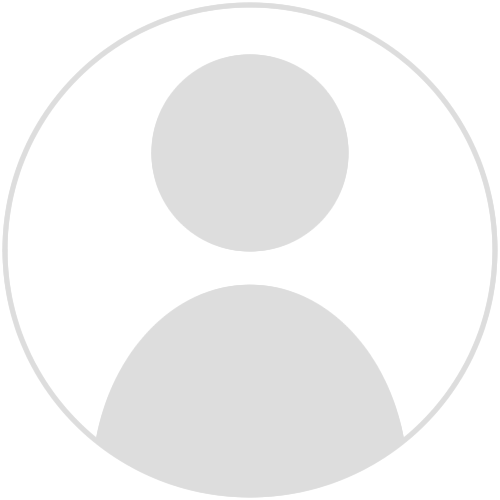
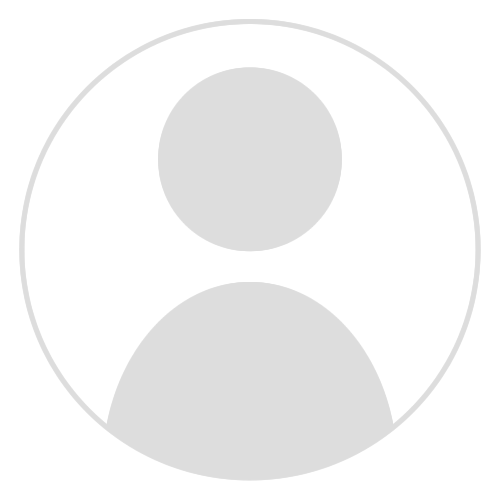
General Update
Began coding home_account.php

Edited images on default home page.

diff --git a/restaurant_portal/home_style.css b/restaurant_portal/home_style.css
@@ -284,6 +284,18 @@ For Nav Bar
     transition-timing-function: linear;
 }
 
+#info_panel
+{
+	text-align: left;
+	float: left;
+	width: 650px;
+}
+
+#password_update
+{
+	
+}
+
 .small_menu
 {
 	display: inline;
@@ -299,6 +311,23 @@ For Nav Bar
 .title_menu li
 {
 	display: inline;
+}
+
+.account_panel
+{
+	width: 90%;
+	list-style-type: none;
+}
+
+.account_panel li
+{
+	background-color: white;
+	display: inline-block;
+	box-shadow: 7px 7px 5px #888888;
+	padding: 10px;
+	text-align: left;
+	float: left;
+	margin: 20px;
 }
 
 .category_box

diff --git a/restaurant_portal/home.php b/restaurant_portal/home.php
@@ -159,37 +159,35 @@
 				switch ($url)
 				{
 					case 1 :
-						echo $url;
+						include 'home_account.php';
 						break;
 					case 2 :
-						echo $url;
+						include 'home_orders.php';
 						break;
 					case 3 :
-						echo $url;
+						include 'home_stock.php';
 						break;
 					case 4 :
-						echo $url;
+						include 'home_basket.php';
 						break;	
 					case 5 :
-						echo $url;
+						include 'home_plOrder.php';
 						break;
 					case 6 :
-						echo $url;
+						include 'home_browse.php';
 						break;
 					case 7 :
-						echo $url;
+						include 'home_favSuppliers.php';
 						break;
 					case 8 :
-						echo $url;
+						include 'home_favProducts.php';
 						break;
 					default:
 						include 'home_default.php';
 						break;
 				}
 			?>
-			
-			
-			
+
 		</content>
 	</body>
 </html>

diff --git a/restaurant_portal/home_account.php b/restaurant_portal/home_account.php
@@ -1,0 +1,32 @@
+<ul class = "account_panel">
+	<li id = "info_panel">
+		Account Details:
+		
+	</li>
+	<li id = "password_update">
+	
+		Update your Password:
+		
+		<form>
+			<br>
+			
+			<label>Old Password:</label><br>
+			<input type = "textbox"><br><br>
+			
+			<label>New Password:</label><br>
+			<input type = "textbox"><br><br>
+			
+			<label>Re-Type New Password:</label><br>
+			<input type = "textbox"><br><br>
+			
+			<input type = "submit" value = "Submit">
+		
+		
+		
+		
+		
+		</form>
+	
+	
+	</li>
+</ul>
